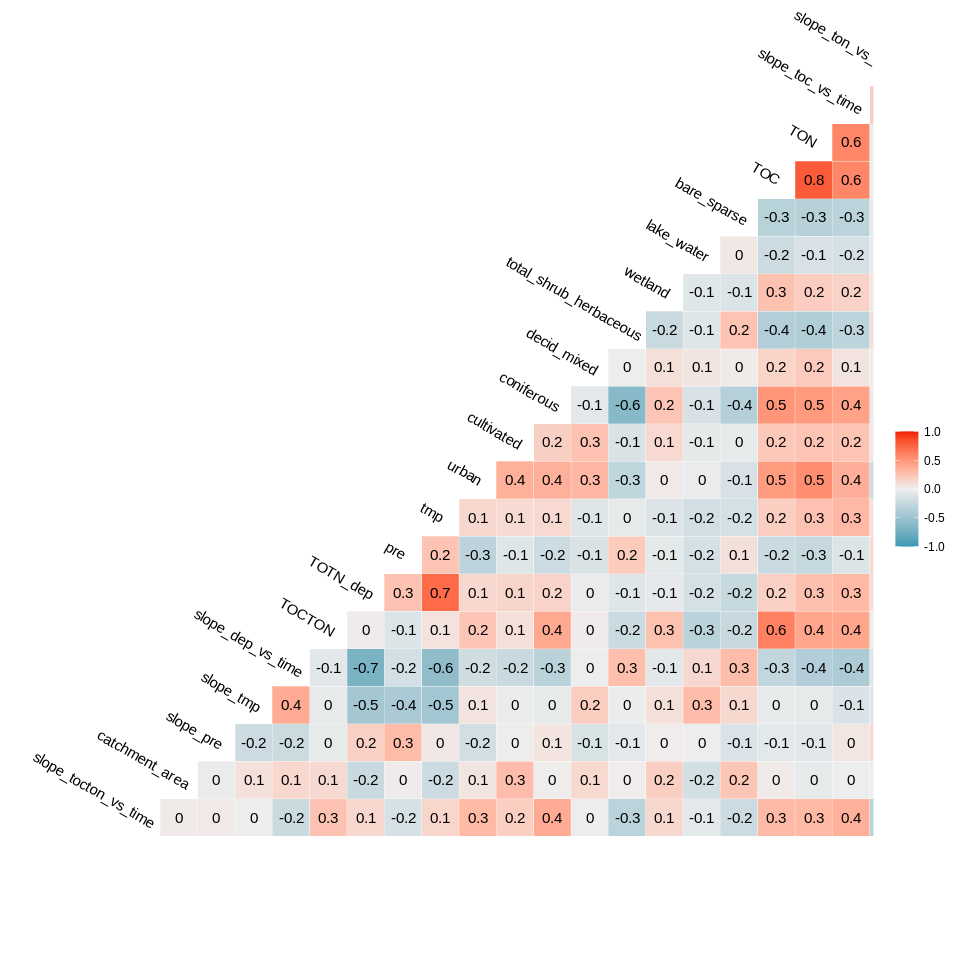
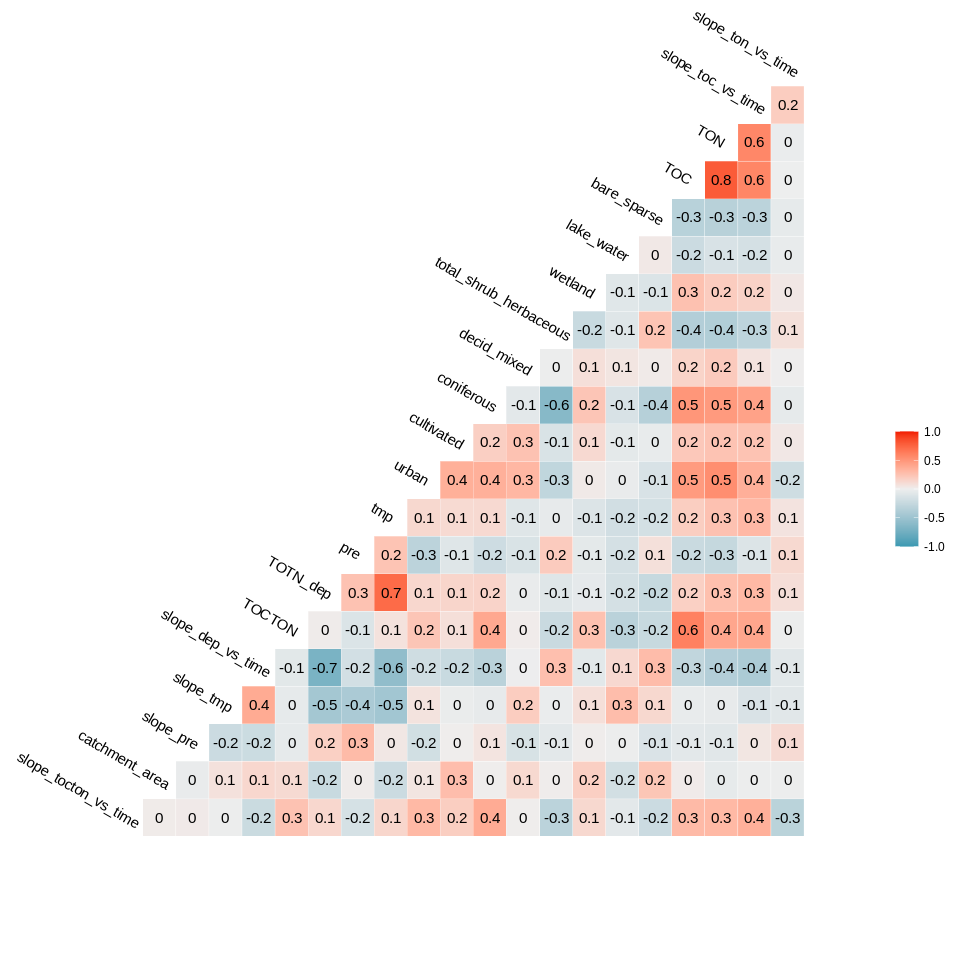
Rerun 167 w. change correlation plot margin

diff --git a/167d1_Time_series_tocton_continuous.md b/167d1_Time_series_tocton_continuous.md
@@ -9,19 +9,19 @@ output:
     keep_md: true
 params:
   document_title: 
-    value: '167x Analyse TOC/TON change - test run'
+    value: '167d1 Analyse TOC/TON change'
   text_dataset: 
-    value: 'Data with slope_tocton_vs_time, catchment_area, TON, slope_pre, slope_tmp, slope_dep_vs_time, TOTN_dep, latitude, longitude, tmp, land cover'
+    value: 'Dataset: Basis + TOC + TON medians and slopes'
   selected_vars: 
-    value: 'slope_tocton_vs_time, catchment_area, TON, slope_pre, slope_tmp, slope_dep_vs_time, TOTN_dep, tmp, urban, cultivated, coniferous, decid_mixed, total_shrub_herbaceous,wetland, lake_water, bare_sparse'
+    value: 'slope_tocton_vs_time,catchment_area, slope_pre, slope_tmp, slope_dep_vs_time, TOCTON, TOTN_dep, pre, tmp,urban, cultivated, coniferous, decid_mixed, total_shrub_herbaceous,wetland, lake_water, bare_sparse, TOC, TON, slope_toc_vs_time, slope_ton_vs_time'
   extra_pairwise_plots:
-    value: 'TON,slope_pre'
+    value: 'TON,slope_pre;slope_pre,slope_tmp;slope_tmp,slope_pre'
   pairwise_plots_same_scale:
     value: 'FALSE'
   response_variable: 
     value: 'slope_tocton_vs_time'
   regression_formula: 
-    value: 'slope_tocton_vs_time ~ TON'
+    value: 'slope_tocton_vs_time ~ catchment_area+ slope_pre + slope_tmp + slope_dep_vs_time + TOCTON + TOTN_dep+ pre + tmp + cultivated + coniferous + decid_mixed + bare_sparse + TOC + TON + slope_toc_vs_time + slope_ton_vs_time'
 
 ---
 
@@ -554,7 +554,7 @@ gg <- GGally::ggcorr(
   method = c("complete.obs", "kendall"), 
   label = TRUE,
   hjust = 0.9, angle = -30) # +                    # slanted labels
-gg + coord_cartesian(x = c(-2, 20), y = c(-2,22))  # fix margins
+gg + coord_cartesian(x = c(-2, 23), y = c(-2,22))  # fix margins
 ```
 
 ```
